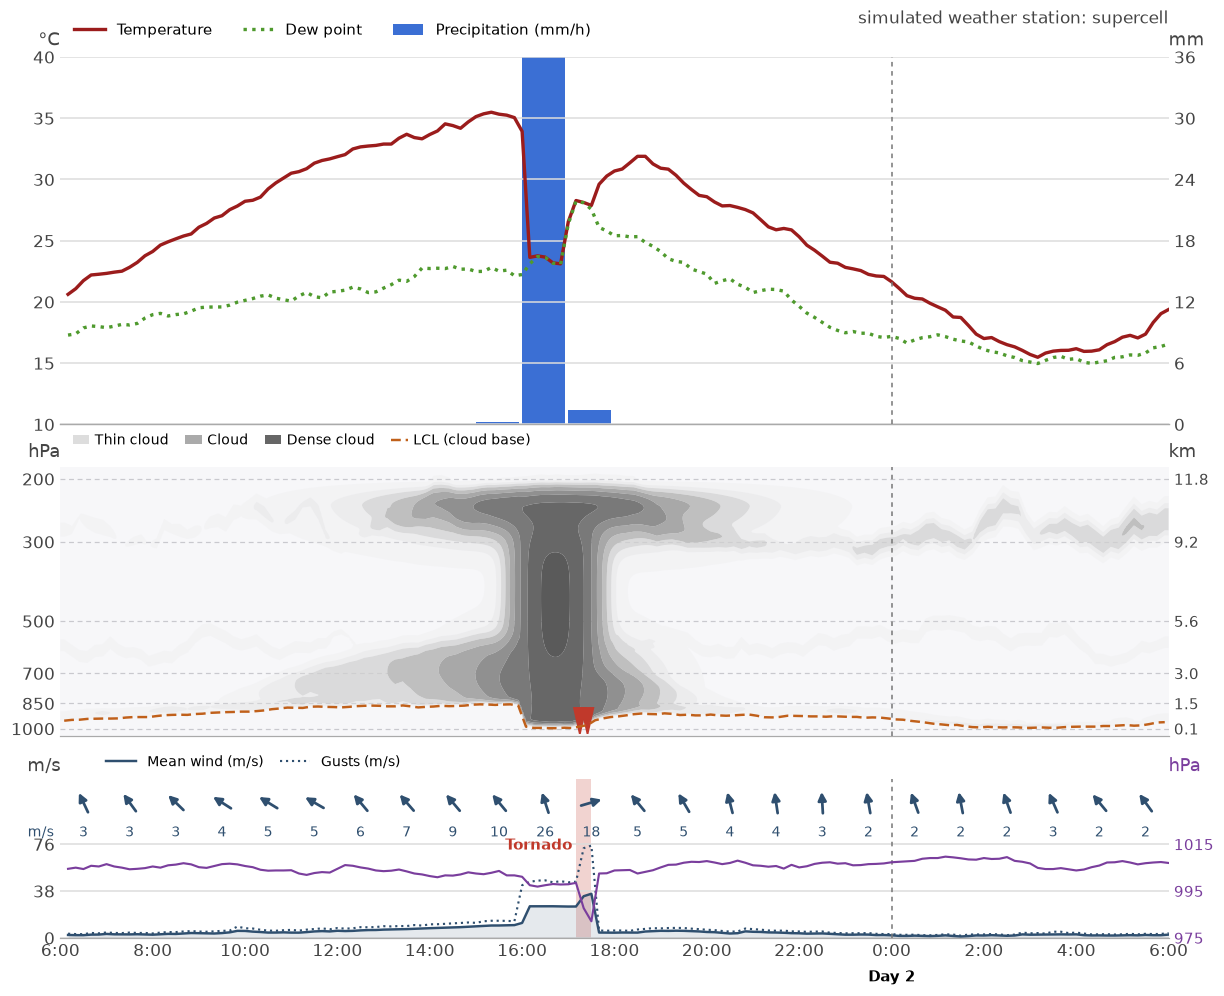
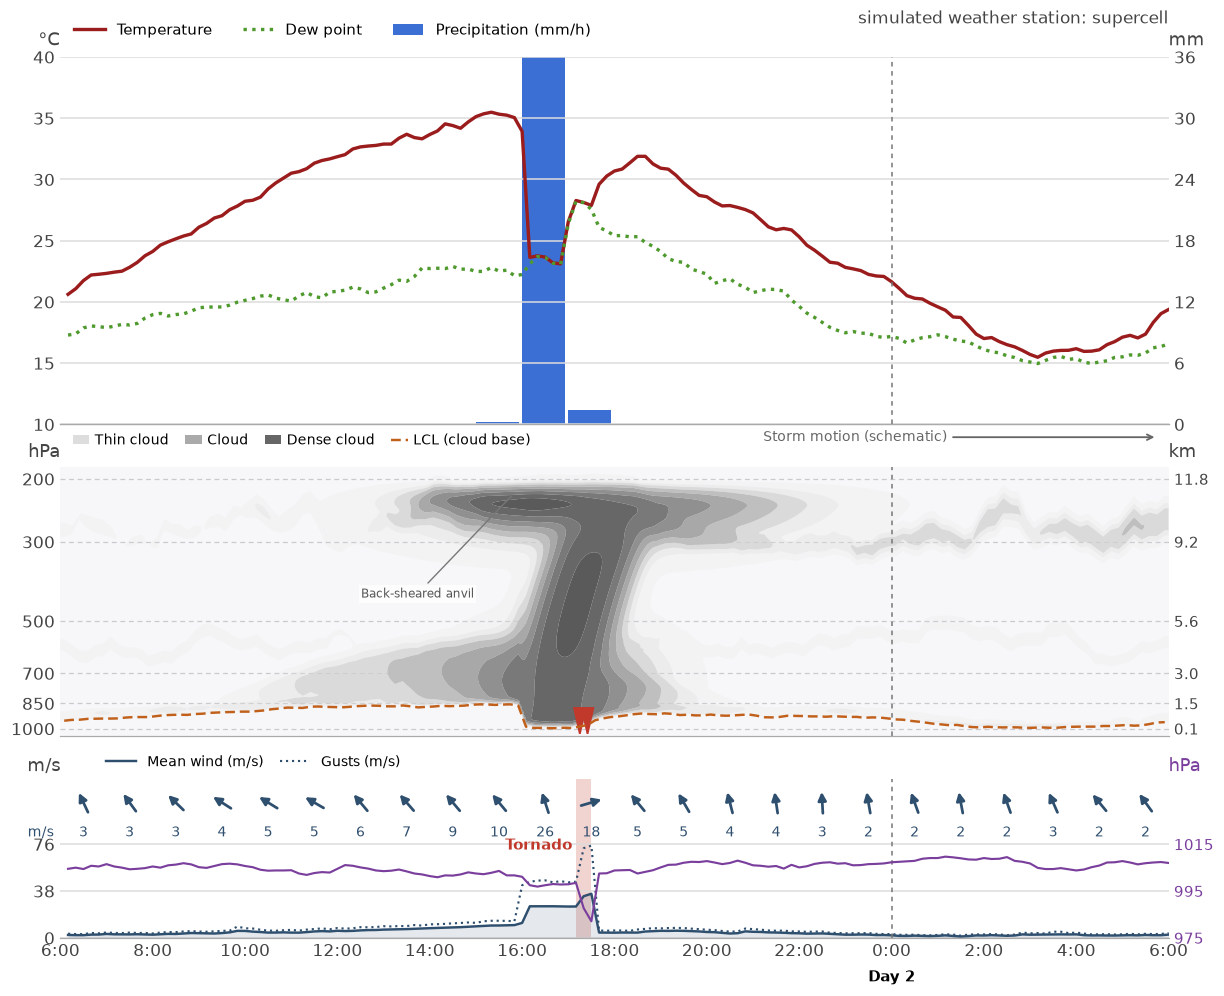
Shear storm clouds forward and add supercell rear anvils
Tilt convective profiles progressively toward the marked rightward schematic motion while anchoring the low base and tornado. Strengthen the tilt for severe storms and keep shifted profiles inside continuous observation segments.

Give supercells a separate smaller upper anvil extending against the main motion and label it in the chart. Carry the firmware scenario through demo, record, live drawing and plotting so the feature appears before tornado records. Add plot --scenario for saved CSVs, retaining tornado-based inference when no scenario is supplied.

Regenerate all seven scenario charts and update the README. Validate progressive forward tilt, stronger severe shear, anchored bases, an upper rearward supercell branch, explicit scenario selection, CSV fallback, clear skies and gap isolation. All five QEMU import/plotting tests pass; the CSV scenario option also renders successfully.

diff --git a/tools/weather_tool.py b/tools/weather_tool.py
@@ -277,11 +277,16 @@ def cloud_colours(thickness):
     return rgba
 
 
-def storm_cloud_profile(times, centers, levels, readings, base, top):
-    """Schematic convective cores, spreading anvils, and storm-base skirts.
+def is_supercell(readings, scenario):
+    """Use the selected scenario, with a tornado-record fallback for old CSVs."""
+    return scenario == "supercell" if scenario is not None else any(r.get("tornado") for r in readings)
 
-    Widths are display cues on the time axis. Recorded gust strength widens
-    severe-storm anvils and the low skirt; gaps split independent segments.
+
+def storm_cloud_profile(times, centers, levels, readings, base, top, scenario=None):
+    """Sheared convective cores, forward/rear anvils, and storm-base skirts.
+
+    Widths and rightward shear are display cues on the time axis. Recorded
+    gust strength widens and tilts severe storms; gaps stay independent.
     """
     import numpy as np
 
@@ -314,10 +319,37 @@ def storm_cloud_profile(times, centers, levels, readings, base, top):
     anvil_weight = np.exp(-((height - 0.90) / 0.14) ** 2)
     skirt_weight = (0.65 + 0.25 * severe) * np.exp(-((height - 0.10) / 0.17) ** 2)
     body_weight = (1 - anvil_weight) * (1 - skirt_weight)
-    return envelope * (body_weight * core + anvil_weight * anvil + skirt_weight * skirt) * (depth > 0)
+    profile = envelope * (body_weight * core + anvil_weight * anvil + skirt_weight * skirt) * (depth > 0)
+
+    # Lean toward the marked schematic motion, increasingly with height.
+    # Keep the low base/tornado anchored and do not advect across missing data.
+    shear_minutes = (45 + 45 * severe) * np.clip(height, 0, 1) ** 1.6
+    sheared = np.zeros_like(profile)
+    for start, end in zip(splits, splits[1:]):
+        inside = (times >= centers[start] - width / 2) & (times <= centers[end - 1] + width / 2)
+        segment_times = times[inside]
+        for row in range(len(levels)):
+            sheared[row, inside] = np.interp(
+                segment_times - shear_minutes[row, inside] / 1440,
+                segment_times, profile[row, inside], left=0, right=0)
+    if is_supercell(readings, scenario):
+        # A smaller upper branch spreads back against the main storm motion.
+        # Select it by scenario so it exists before any tornado is recorded.
+        rear_signal = np.clip(1.35 * spread(amount ** 1.5, 40 + 15 * severe), 0, 0.70)
+        rear_weight = np.exp(-((height - 0.93) / 0.075) ** 2)
+        rear = envelope * rear_weight * rear_signal * (depth > 0)
+        rear_shift = (40 + 35 * severe) * np.clip(height, 0, 1) ** 1.8
+        for start, end in zip(splits, splits[1:]):
+            inside = (times >= centers[start] - width / 2) & (times <= centers[end - 1] + width / 2)
+            segment_times = times[inside]
+            for row in range(len(levels)):
+                sheared[row, inside] += np.interp(
+                    segment_times + rear_shift[row, inside] / 1440,
+                    segment_times, rear[row, inside], left=0, right=0)
+    return sheared
 
 
-def cloud_density(readings, rows=300):
+def cloud_density(readings, rows=300, scenario=None):
     """Build a display field from recorded layers and schematic storm profiles.
 
     Layer amounts/heights interpolate between adjacent records; convective
@@ -344,7 +376,7 @@ def cloud_density(readings, rows=300):
         top = interpolate([math.log(r.get(top_key) or top_fixed) if top_key else math.log(top_fixed)
                            for r in readings])
         if key == "cumulonimbus":
-            thickness += density * storm_cloud_profile(times, centers, levels, readings, base, top)
+            thickness += density * storm_cloud_profile(times, centers, levels, readings, base, top, scenario=scenario)
             continue
         depth = base - top
         valid = depth > 0
@@ -368,7 +400,7 @@ def cloud_density(readings, rows=300):
     return times, levels, thickness
 
 
-def draw_cloud_panel(ax, readings):
+def draw_cloud_panel(ax, readings, scenario=None):
     """Windy-style grayscale cloud contours on a log-pressure height axis.
 
     Layer interpolation and anvil/core/skirt shapes are rendering schematics;
@@ -383,7 +415,7 @@ def draw_cloud_panel(ax, readings):
     layered = [r for r in readings if r.get("lcl") is not None]
     p_bottom, p_top = 1050.0, 185.0
     width = RECORD_MINUTES / 1440
-    times, levels, thickness = cloud_density(layered)
+    times, levels, thickness = cloud_density(layered, scenario=scenario)
     swatches = cloud_colours(np.array([(low + high) / 2 for low, high in zip(CLOUD_BANDS, CLOUD_BANDS[1:])]))
     ax.set_facecolor("#f7f7f9")
     ax.contourf(times, levels, np.ma.masked_invalid(thickness), levels=CLOUD_BANDS,
@@ -422,9 +454,23 @@ def draw_cloud_panel(ax, readings):
                Line2D([], [], color=LCL_COLOR, lw=1.6, ls=(0, (4, 2)), label="LCL (cloud base)")]
     ax.legend(handles=handles, loc="upper left", bbox_to_anchor=(0.0, 1.17), ncol=4,
               frameon=False, fontsize=9, handlelength=1.2, handletextpad=0.4, columnspacing=1.2)
+    if any((r.get("cumulonimbus") or 0) > 0 for r in layered):
+        ax.annotate("Storm motion (schematic)", xy=(0.99, 1.11), xytext=(0.80, 1.11),
+                    xycoords="axes fraction", ha="right", va="center", fontsize=9,
+                    color="#666666", annotation_clip=False,
+                    arrowprops={"arrowstyle": "->", "color": "#666666", "lw": 1.2})
+        if is_supercell(layered, scenario):
+            weights = np.array([(r.get("cumulonimbus") or 0) / 100 for r in layered]) ** 2.2
+            centers = np.array([mdates.date2num(r["when"]) - width / 2 for r in layered])
+            center = np.dot(centers, weights) / weights.sum()
+            ax.annotate("Back-sheared anvil", xy=(center - 55 / 1440, np.log(220)),
+                        xytext=(center - 180 / 1440, np.log(420)), ha="center", va="center",
+                        fontsize=8, color="#555555", zorder=6,
+                        bbox={"facecolor": "white", "edgecolor": "none", "alpha": 0.85, "pad": 1.5},
+                        arrowprops={"arrowstyle": "-", "color": "#777777", "lw": 0.9})
 
 
-def plot(readings, out_path, hours=24, title=None):
+def plot(readings, out_path, hours=24, title=None, scenario=None):
     """Draw the chart into a PNG file."""
     import matplotlib
 
@@ -432,12 +478,12 @@ def plot(readings, out_path, hours=24, title=None):
     import matplotlib.pyplot as plt
 
     fig = plt.figure(figsize=(13, 10.4 if any(r.get("lcl") is not None for r in readings) else 7.2))
-    draw(fig, readings, hours, title)
+    draw(fig, readings, hours, title, scenario=scenario)
     fig.savefig(out_path, dpi=110, bbox_inches="tight")
     plt.close(fig)
 
 
-def draw(fig, readings, hours=24, title=None):
+def draw(fig, readings, hours=24, title=None, scenario=None):
     """Draw the chart into an (empty or reused) matplotlib figure."""
     import matplotlib
     import matplotlib.dates as mdates
@@ -516,7 +562,7 @@ def draw(fig, readings, hours=24, title=None):
 
     # -- cloud panel: types at their levels on a pressure axis -----------------
     if ax_c is not None:
-        draw_cloud_panel(ax_c, readings)
+        draw_cloud_panel(ax_c, readings, scenario=scenario)
 
     # -- wind panel ----------------------------------------------------------
     # Solid: the mean wind of each 10-minute record. Dotted: the gusts, the
@@ -655,7 +701,7 @@ def safe_interval(speed):
     return max(0.2, min(2.0, LOG_CAPACITY / records_per_second / 4))
 
 
-def record(client, csv_path, out_path, hours, interval, plot_hours, live, title):
+def record(client, csv_path, out_path, hours, interval, plot_hours, live, title, scenario=None):
     """Import new records every `interval` real seconds (None: chosen from the
     speed) and redraw the chart, until `hours` simulated hours have been
     recorded (0 = until Ctrl-C or the live window is closed)."""
@@ -683,10 +729,10 @@ def record(client, csv_path, out_path, hours, interval, plot_hours, live, title)
                 print(f"  day {last['day']} {last['when']:%H:%M}  {last['temperature']:5.1f} C  "
                       f"{last['wind_speed']:4.1f} m/s  rain {last['rain']:.1f} mm   ({len(readings)} records)")
                 if live:
-                    draw(figure, readings, plot_hours, title)
+                    draw(figure, readings, plot_hours, title, scenario=scenario)
                     figure.canvas.draw_idle()
                 else:
-                    plot(readings, out_path, plot_hours, title)
+                    plot(readings, out_path, plot_hours, title, scenario=scenario)
             if hours and recorded >= hours * 60 // RECORD_MINUTES:
                 break
             if live:
@@ -701,7 +747,7 @@ def record(client, csv_path, out_path, hours, interval, plot_hours, live, title)
         print("Stopped.")
     readings = load(csv_path)
     if readings:
-        plot(readings, out_path, plot_hours, title)
+        plot(readings, out_path, plot_hours, title, scenario=scenario)
         print(f"Wrote {out_path} ({len(readings)} records)")
 
 
@@ -722,6 +768,7 @@ def main(argv=None):
     p_plot.add_argument("csv")
     p_plot.add_argument("--out", default="weather.png")
     p_plot.add_argument("--hours", type=int, default=24, help="plot the last N hours (0 = all)")
+    p_plot.add_argument("--scenario", choices=SCENARIOS, help="cloud-structure profile for the imported CSV")
 
     p_rec = sub.add_parser("record", help="collect live measurements and keep the chart up to date")
     p_rec.add_argument("--speed", type=int, help="simulation speed: 1 = real time (default), up to 72000")
@@ -753,7 +800,7 @@ def main(argv=None):
         added = fetch(WeatherClient(args.host, args.port), args.out, args.advance)
         print(f"Imported {added} new readings into {args.out}")
     elif args.command == "plot":
-        plot(load(args.csv), args.out, args.hours, title=os.path.basename(args.csv))
+        plot(load(args.csv), args.out, args.hours, title=os.path.basename(args.csv), scenario=args.scenario)
         print(f"Wrote {args.out}")
     elif args.command == "record":
         # Stop cleanly on `kill` (SIGTERM) as well as Ctrl-C: write the final
@@ -777,7 +824,8 @@ def main(argv=None):
         try:
             scenario = client.command("scenario").split()[1].rstrip(":")
             record(client, args.csv, args.out, args.hours, args.interval, args.plot_hours, args.live,
-                   title=f"simulated weather station: {scenario}, {client.command('speed').split()[-1]}x")
+                   title=f"simulated weather station: {scenario}, {client.command('speed').split()[-1]}x",
+                   scenario=scenario)
         finally:
             if qemu:
                 qemu.kill()
@@ -796,7 +844,7 @@ def main(argv=None):
         finally:
             qemu.kill()
             qemu.wait()
-        plot(load(args.csv), args.out, args.hours, title=f"simulated weather station: {scenario}")
+        plot(load(args.csv), args.out, args.hours, title=f"simulated weather station: {scenario}", scenario=scenario)
         print(f"Wrote {args.out}")
     return 0
 

diff --git a/README.md b/README.md
@@ -256,9 +256,12 @@ matplotlib, in the style of the [FMI forecast chart](https://www.ilmatieteenlait
   - cumulonimbus has a narrower convective core and a spreading upper anvil;
     stronger recorded gusts broaden the anvil and lower storm-base skirt
 
-  Storm shapes are schematic profiles on the time axis. They illustrate the
-  anvil/core structure and broader base of severe storms while preserving the
-  logged readings and rainfall totals.
+  Storm shapes are schematic profiles on the time axis. A rightward motion arrow
+  defines the drawing convention: the base stays anchored while the core and
+  anvil lean progressively in that direction, with stronger shear for severe
+  storms. Supercells also have a smaller back-sheared anvil extending against
+  that motion, labelled on the chart. Surface wind arrows retain their recorded
+  compass directions. Logged readings and rainfall totals stay unchanged.
 
   The LCL (cloud base) is a dashed line, and a tornado is a red funnel to the ground.
 - **Bottom panel:** wind. The solid line (with a light fill) is each 10-minute record's mean
@@ -286,6 +289,10 @@ python tools/weather_tool.py plot weather.csv --out weather.png --hours 24
 # Instant: fast-forward without waiting at all.
 python tools/weather_tool.py demo --firmware build/firmware.elf --minutes 2880 --hours 48
 ```
+
+`demo` and `record` select the cloud profile from the firmware scenario. When
+replotting a supercell CSV, use `plot weather.csv --scenario supercell` to retain
+its back-sheared anvil, including records from before a tornado occurs.
 
 The CSV columns are
 `seq,day,time,temperature,humidity,wind_speed,wind_direction,rain,cloud_cover,lcl,cirrus,altostratus,cumulus,cumulus_top,cumulonimbus,cirrus_base,cirrus_top,altostratus_base,altostratus_top,stratus,stratocumulus,nimbostratus,altocumulus,stratus_top,stratocumulus_top,nimbostratus_top,altocumulus_base,altocumulus_top,pressure,wind_gust,tornado`
